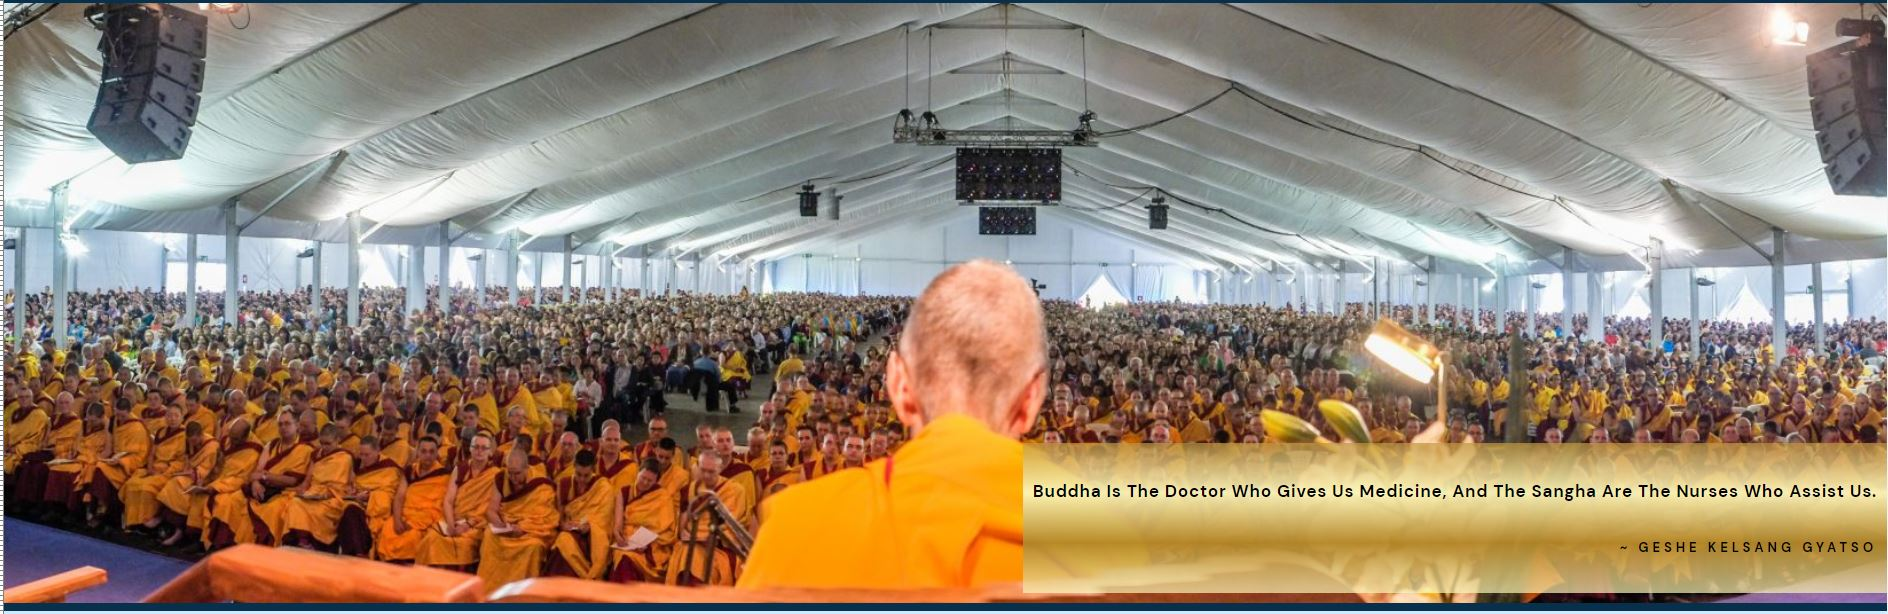
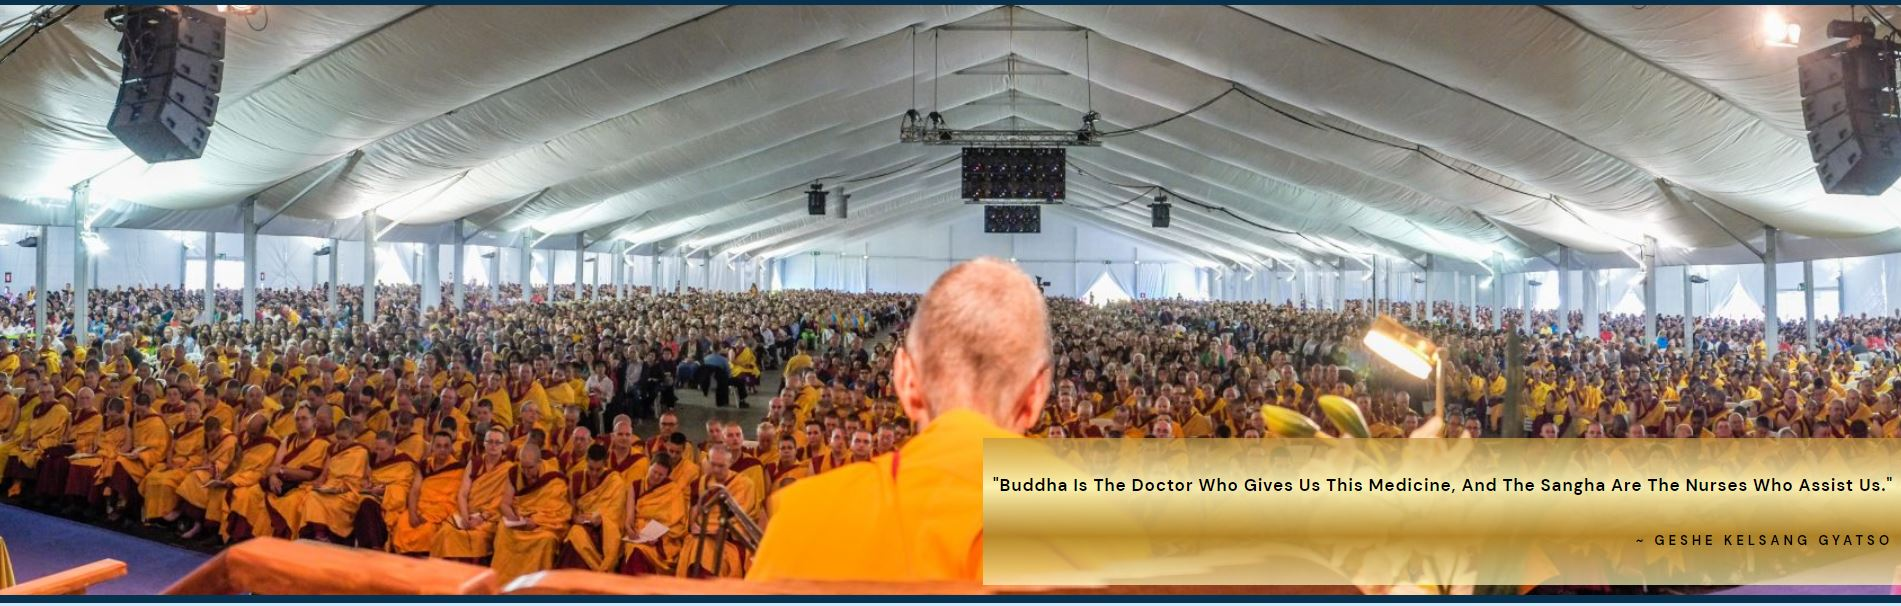
minor grammatical adjustments to readme

diff --git a/README.md b/README.md
@@ -55,11 +55,11 @@ The New Kadampa Tradition (NKT) is a modern form of Buddhism without any cultura
 * Users who have never heard of the NKT.
 * Users who have heard of the NKT but would like to find more information on the tradition.
 
-### **User Story's:**
+### **User Stories:**
 * As a user, I want to see the subject matter of the page.
-* As a user, I want to navigate the page to find what I require easily.
+* As a user, I want to navigate the page to find what I require quickly and easily.
 * As a user, I want to leave feeling as I know more about the subject when leaving each page than when I arrived at the site.
-* As a user, I was to be able to navigate my way to free resources easily
+* As a user, I was to be able to navigate my way to free resources easily.
 * As a user, I want to reach out and connect to discuss/experience the subject matter on a deeper level. 
 
 ### **Site Aims:**
@@ -86,7 +86,7 @@ The New Kadampa Tradition (NKT) is a modern form of Buddhism without any cultura
 
 * If the user is in a country or region without a nearby center or wishes to speak to someone informally about the subject, I have included a contact form to connect the site author directly. The reason for this also relates to the [Future-enhancements](#future-enhancements) section listed later in this readme. 
 
-* Providing a newsletter to which the user can subscribe whilst sending the site author a message or by omitting the message and selecting the appropriate option before clicking the submit button.
+* Providing a newsletter to which the user can subscribe while sending the site author a message or by omitting the message and selecting the appropriate option before clicking the submit button.
 
 ### **Wireframes:**
 To organize my thoughts and prevent scope creep, I created wireframes for this project. Below are links to each of the mobile and desktop versions of the four intended pages. 
@@ -118,7 +118,7 @@ When deciding the color scheme, I wanted to go with something that gave an elega
 
 ## **Current Features Common to all pages**
 ###  **Header Element**
-The header element sticks to the top of the page as the user scrolls up and down. Originally I had designed the page with a "return to top" link at the bottom of the page. However, a Code Institute graduate pointed out that the sticky header would provide a more pleasant UX and better adhere to popular conventions. The header itself contains the following features: 
+The header element sticks to the top of the page as the user scrolls up and down. Originally I had designed the page with a "return to top" link at the bottom of the page. However, a Code Institute graduate pointed out that the sticky header would provide a more pleasant UX and adhere to popular conventions better. The header itself contains the following features: 
 
 #### *Title:*
 ![Page title](docs/screenshots/title.jpg)
@@ -129,19 +129,19 @@ The header element sticks to the top of the page as the user scrolls up and down
 #### *Logos:*
 * The logos illustrate the site's theme and offer something to appease the user's eye by filling the blank space without distracting from the title.
 
-    * One logo on mobile devices was to ensure the title stays as big as possible on a smaller screen, improving the user experience.
+    * One logo on mobile devices ensured the title stays as big as possible on a smaller screen, improving the user experience.
 
         ![Mobile header](docs/screenshots/mobile-header.jpg)
 
-    * Two logos on larger screens gave better symmetry to the header whilst filling the excess white space provided by broader screen sizes.
+    * Two logos on larger screens gave better symmetry to the header while filling the excess white space provided by broader screen sizes.
 
         ![Desktop header](docs/screenshots/desktop-header.jpg)
 
 #### *Navigation Bar:*
 * The navigation bar appears on all five pages (including the form feedback page). 
-* It contains links to the about, teachings, community and contact page to allow easy navigation around the website. 
+* It contains links to the about, teachings, community, and contact page to allow easy navigation around the website. 
 * The below image shows the user's current page highlighted in blue with a white border. 
-* This blue highlight with a white border is also mimicked on the hover over feature for the other navbar buttons.
+* Hover over feature, which turns the menu option the same as the active page when users hover their cursor over the navbar heading.
 ![Navigation bar](docs/screenshots/nav-bar.jpg)
 ***
 ### **Hero Images**
@@ -154,21 +154,21 @@ The header element sticks to the top of the page as the user scrolls up and down
 The hero image depicts Geshe Kelsang Gyatso, who was the founder of the New Kadampa Tradition. He is smiling and waving as if welcoming the user to the page. Behind him is the NKT's primary temple, which holds great significance. The temple pictured hosts two of the NKT's international festivals and is within the grounds of Manjushri Meditation center, considered the hub of the NKT's global operations.
 ![About page hero image](docs/screenshots/about-hero-img.jpg)
 #### *Quote:*
-The quote included on the about page is "We Need Modern Ideas, But We Also Need Ancient Wisdom." which perfectly sums up the page's subject matter that begins with what the NKT is.
+The quote included on the about page is "We need modern ideas, but we also need ancient wisdom." which perfectly sums up the page's subject matter that begins with what the NKT is.
 
 ### **Teachings page**:
 #### *Hero-Image:*
 This image is Geshe Kelsang Gyatso sat on what is commonly called a throne at one of the traditions international festivals. The throne is where a teacher sits to expound the oral lineage passed from teacher to disciple, and so it was appropriate for a page discussing the core beliefs of the philosophy in his own words.
 ![Teaching page hero image](docs/screenshots/teachings-hero-img.jpg)
 #### *Quote:*
-The quote included on the teachings page is "Happiness And Suffering Are States Of Mind And So Their Main Causes Are Not To Be Found Outside The Mind." which compliments the subject matter of the page's content.
+The quote included on the teachings page is "Happiness and suffering are states of mind and so their main causes are not to be found outside the mind." which compliments the subject matter of the page's content.
 
 ### **Community page:**
 #### *Hero-Image:*
 This image is taken from behind Geshe Kelsang Gyatso, teaching at a festival. The intention is to show the extent of the international community attending one of these events.
 ![Community page hero image](docs/screenshots/community-hero-img.jpg)
 #### *Quote:*
-The quote on the community page is, "Buddha is the doctor who gives us medicine, and the Sangha are the nurses who assist us." Sangha is defined in the page's content and shows the importance and function of the community within the NKT.
+The quote on the community page is, "Buddha is the doctor who gives us this medicine, and the Sangha are the nurses who assist us." Sangha is defined in the page's content and shows the importance and function of the community within the NKT.
 
 ### **Contact and Form-Feedback pages:**
 These two hero images and quotes were kept the same to simulate still being on the same page after the form is submitted.
